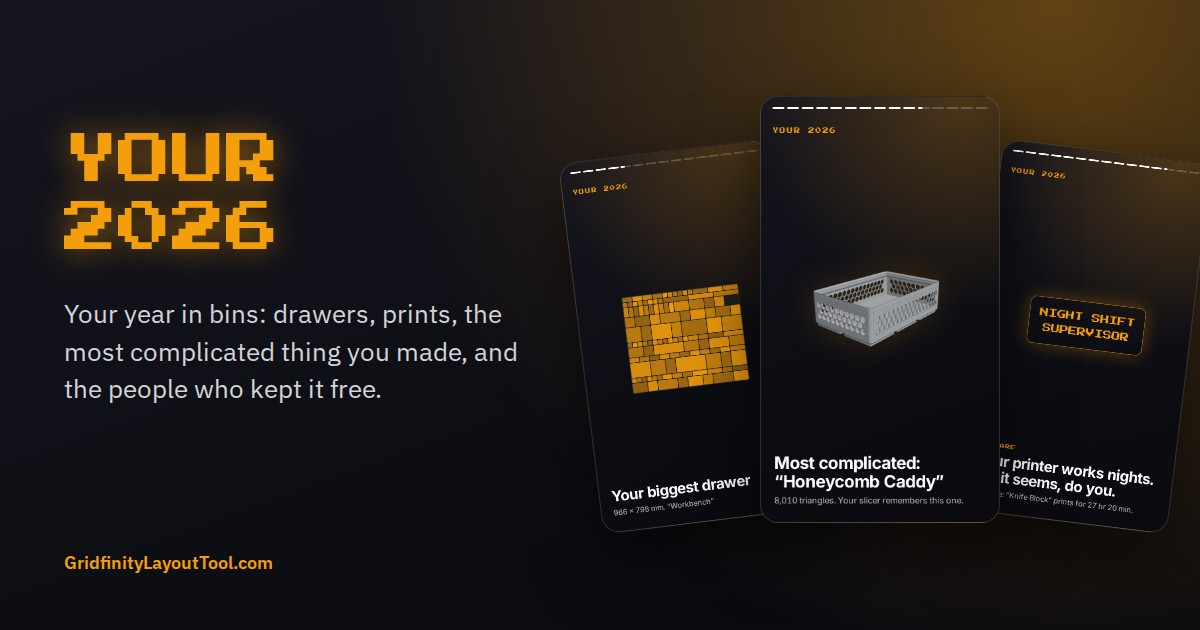
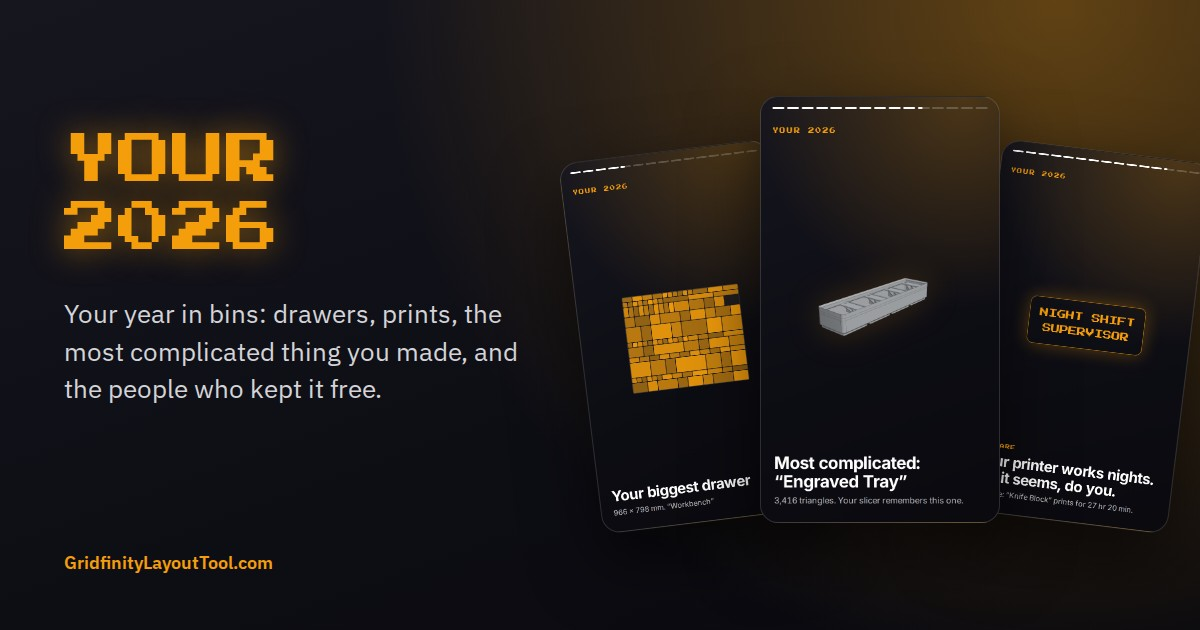
fix(supporters): pick the most complicated design by design work, not triangles
A wall pattern or engraved text adds thousands of triangles, so any patterned
bin won "Most complicated" over a design that took far more work. The pick is
now the design with the most work: each cutout, insert and text, each feature
turned on (a pattern counts once), and compartments up to a grid preset's cap.
The triangle count stays on the card as a fact about the chosen design.

The pick no longer depends on which meshes have loaded, so the page drops the
pick it froze per session and asks for two meshes, not six.

Changed region(s): [[0.6783, 0.4222, 0.8017, 0.5429], [0.6475, 0.754, 0.8017, 0.7841]]

diff --git a/src/features/supporters/year/components/Your2026Page/Your2026Page.tsx b/src/features/supporters/year/components/Your2026Page/Your2026Page.tsx
@@ -9,7 +9,6 @@ import { useSupportersRouting } from '@/shared/hooks/useSupportersRouting';
 import { useYour2026Routing } from '@/shared/hooks/useYour2026Routing';
 import { markYearReviewSeen } from '@/shared/yearReview/dockRow';
 import { isYearReviewOpen, YEAR_REVIEW_YEAR } from '@/shared/yearReview/window';
-import { useLatestRef } from '@/shared/hooks';
 import { useSupportersData } from '../../../hooks/useSupportersData';
 import { getSupportersPalette } from '../../../scene/palette';
 import { getSupporterCount } from '../../../utils/supportersData';
@@ -20,7 +19,7 @@ import { useShareImage } from '../../hooks/useShareImage';
 import { useYearMeshes } from '../../hooks/useYearMeshes';
 import { useYearSoundtrack } from '../../hooks/useYearSoundtrack';
 import { useYearReviewData } from '../../hooks/useYearReviewData';
-import { meshCandidates, pickComplicated, type ComplicatedPick } from '../../utils/complicatedPick';
+import { meshCandidates, pickComplicated } from '../../utils/complicatedPick';
 import type { YearCard } from '../../utils/yearCards';
 import { readableAccent } from '../../utils/readableAccent';
 import { ShareButton } from '../ShareButton';
@@ -30,14 +29,6 @@ import { hasYearActivity } from '../../utils/yearStats';
 import { StoryPlayer } from '../StoryPlayer';
 import { YearCardView, describeCard } from '../YearCardView';
 import { YearStage } from '../YearStage';
-
-/**
- * The most complicated bin of the user's own year, fixed the first time its card
- * shows, so a mesh that lands later cannot change the answer, and a replay names
- * the same bin. The sample's baked counts fix its pick already, and a frozen one
- * would keep a name translated into an earlier language.
- */
-let frozenComplicated: ComplicatedPick | null = null;
 
 const SITE_HOST = 'gridfinitylayouttool.com';
 
@@ -148,10 +139,9 @@ function YearReview({ demo }: { readonly demo: boolean }) {
     !demo && stats !== null && hasYearActivity(stats)
   );
   const meshes = demo ? sample.meshes : liveMeshes;
-  const [complicated, setComplicated] = useState(() => (demo ? null : frozenComplicated));
   // The sample knows its counts before its meshes load, so its pick never waits.
   const triangles = demo ? sample.triangles : null;
-  const liveComplicated = useMemo(
+  const complicated = useMemo(
     () =>
       stats
         ? pickComplicated(
@@ -161,20 +151,10 @@ function YearReview({ demo }: { readonly demo: boolean }) {
         : null,
     [stats, meshes, triangles]
   );
-  const shownComplicated = complicated ?? liveComplicated;
   const [settledCard, setSettledCard] = useState<YearCard | null>(null);
-  // Read through a ref: a new handler makes the player call it again with no
-  // card change, which would clear the image the settled card prepared.
-  const liveComplicatedRef = useLatestRef(liveComplicated);
-  const onCardChange = useCallback(
-    (card: YearCard) => {
-      setSettledCard(null);
-      if (demo || card.kind !== 'complicated' || frozenComplicated) return;
-      frozenComplicated = liveComplicatedRef.current;
-      setComplicated(liveComplicatedRef.current);
-    },
-    [liveComplicatedRef, demo]
-  );
+  // Stable on purpose: a new handler makes the player call it again with no card
+  // change, which would clear the image the settled card prepared.
+  const onCardChange = useCallback(() => setSettledCard(null), []);
   const supporterCount = getSupporterCount(supporters);
   const shareSpec = useMemo(
     () =>
@@ -185,23 +165,12 @@ function YearReview({ demo }: { readonly demo: boolean }) {
             locale,
             unit,
             supporterCount,
-            complicated: complicated ?? liveComplicated,
+            complicated,
             drawerPreview,
             meshes,
           })
         : null,
-    [
-      settledCard,
-      stats,
-      t,
-      locale,
-      unit,
-      supporterCount,
-      complicated,
-      liveComplicated,
-      drawerPreview,
-      meshes,
-    ]
+    [settledCard, stats, t, locale, unit, supporterCount, complicated, drawerPreview, meshes]
   );
   const shareTheme = useMemo(() => {
     // Canvas fonts cannot read CSS variables, so the families are resolved here.
@@ -306,7 +275,7 @@ function YearReview({ demo }: { readonly demo: boolean }) {
           locale,
           unit,
           supporterCount: getSupporterCount(supporters),
-          complicated: shownComplicated,
+          complicated,
         })
       }
       renderCard={(card, position) => (
@@ -321,7 +290,7 @@ function YearReview({ demo }: { readonly demo: boolean }) {
           supporterCount={getSupporterCount(supporters)}
           drawerPreview={drawerPreview}
           meshes={meshes}
-          complicated={shownComplicated}
+          complicated={complicated}
           onRollCredits={rollCredits}
           onSupport={support}
         />

diff --git a/src/features/supporters/year/utils/complicatedPick.ts b/src/features/supporters/year/utils/complicatedPick.ts
@@ -1,43 +1,29 @@
 import type { YearBinRef, YearShortlistEntry, YearStats } from '../types';
 
-/** How many of the highest-scored designs get a mesh, besides the longest print. */
-const SHORTLIST_MESHES = 5;
-
 export interface ComplicatedPick {
   readonly design: YearShortlistEntry;
-  /** Null when no shortlisted design has a mesh yet. */
+  /** Null until the design's mesh is ready; the card then shows no count. */
   readonly triangles: number | null;
 }
 
-/** The designs worth a mesh, the longest print first. */
+/** The designs worth a mesh: the longest print and the most complicated design, once each. */
 export function meshCandidates(stats: YearStats): YearBinRef[] {
   const designs: YearBinRef[] = [];
-  const seen = new Set<string>();
-  for (const design of [
-    stats.longestPrint,
-    ...stats.complexityShortlist.slice(0, SHORTLIST_MESHES),
-  ]) {
-    if (!design || seen.has(design.id)) continue;
-    seen.add(design.id);
-    designs.push(design);
+  for (const design of [stats.longestPrint, stats.complexityShortlist.at(0)]) {
+    if (design && !designs.some((each) => each.id === design.id)) designs.push(design);
   }
   return designs;
 }
 
 /**
- * The shortlisted design with the most triangles, or the top-scored one when
- * no mesh is ready, which the card shows without a count.
+ * The design with the most design work, which the shortlist lists first. Its
+ * triangle count is a fact for the card, never the ranking: a pattern or
+ * engraved text would otherwise win every year.
  */
 export function pickComplicated(
   shortlist: readonly YearShortlistEntry[],
   triangles: (id: string) => number | undefined
 ): ComplicatedPick | null {
-  let best: ComplicatedPick | null = null;
-  for (const design of shortlist) {
-    const count = triangles(design.id);
-    if (count !== undefined && (best?.triangles ?? -1) < count) best = { design, triangles: count };
-  }
-  if (best) return best;
   const top = shortlist.at(0);
-  return top ? { design: top, triangles: null } : null;
+  return top ? { design: top, triangles: triangles(top.id) ?? null } : null;
 }

diff --git a/src/features/supporters/year/utils/designFeatures.test.ts b/src/features/supporters/year/utils/designFeatures.test.ts
@@ -1,7 +1,7 @@
 import { describe, expect, it } from 'vitest';
 import { DEFAULT_BIN_PARAMS } from '@/shared/constants/bin';
 import type { BinParams } from '@/shared/types/bin';
-import { compartmentCount, featureScore, hasLabelText, isBinParams } from './designFeatures';
+import { compartmentCount, designWork, hasLabelText, isBinParams } from './designFeatures';
 
 function withCompartments(rows: number, cols: number, cells: number[]): BinParams {
   return {
@@ -97,13 +97,34 @@ describe('hasLabelText', () => {
   });
 });
 
-describe('featureScore', () => {
-  it('ranks a patterned wall above a plain one', () => {
-    const plain = featureScore(DEFAULT_BIN_PARAMS);
-    const patterned = featureScore({
+describe('designWork', () => {
+  const patterned = {
+    ...DEFAULT_BIN_PARAMS,
+    wallPattern: { ...DEFAULT_BIN_PARAMS.wallPattern, enabled: true },
+  };
+
+  it('counts a wall pattern as one feature, like a scoop', () => {
+    const scooped = {
       ...DEFAULT_BIN_PARAMS,
-      wallPattern: { ...DEFAULT_BIN_PARAMS.wallPattern, enabled: true },
+      scoop: { ...DEFAULT_BIN_PARAMS.scoop, enabled: true },
+    };
+    expect(designWork(patterned)).toBe(designWork(scooped));
+  });
+
+  it('ranks a design with more built into it above a patterned plain bin', () => {
+    const worked = {
+      ...DEFAULT_BIN_PARAMS,
+      compartments: { ...DEFAULT_BIN_PARAMS.compartments, rows: 2, cols: 3, cells: [] },
+      lid: { ...DEFAULT_BIN_PARAMS.lid, enabled: true },
+    };
+    expect(designWork(worked)).toBeGreaterThan(designWork(patterned));
+  });
+
+  it('caps a large compartment grid, which is one preset', () => {
+    const grid = (rows: number, cols: number) => ({
+      ...DEFAULT_BIN_PARAMS,
+      compartments: { ...DEFAULT_BIN_PARAMS.compartments, rows, cols, cells: [] },
     });
-    expect(patterned).toBeGreaterThan(plain);
+    expect(designWork(grid(10, 10))).toBe(designWork(grid(4, 4)));
   });
 });

diff --git a/src/features/supporters/year/utils/complicatedPick.test.ts b/src/features/supporters/year/utils/complicatedPick.test.ts
@@ -10,15 +10,15 @@ function entry(id: string, score: number): YearShortlistEntry {
 const shortlist = [entry('a', 30), entry('b', 20), entry('c', 10)];
 
 describe('pickComplicated', () => {
-  it('picks the most triangles among the designs with a mesh', () => {
-    const counts: Record<string, number> = { b: 9000, c: 4000 };
+  it('picks the most design work, whatever has the most triangles', () => {
+    const counts: Record<string, number> = { a: 3000, b: 90_000 };
     expect(pickComplicated(shortlist, (id) => counts[id])).toEqual({
-      design: shortlist[1],
-      triangles: 9000,
+      design: shortlist[0],
+      triangles: 3000,
     });
   });
 
-  it('falls back to the top score, without a count, when no mesh is ready', () => {
+  it('shows no count until the mesh is ready', () => {
     expect(pickComplicated(shortlist, () => undefined)).toEqual({
       design: shortlist[0],
       triangles: null,
@@ -31,18 +31,14 @@ describe('pickComplicated', () => {
 });
 
 describe('meshCandidates', () => {
-  it('puts the longest print first and takes five more by score, once each', () => {
+  it('asks for the longest print and the most complicated design, once each', () => {
     const many = Array.from({ length: 8 }, (_, i) => entry(`d${i}`, 10 - i));
     const stats = {
       longestPrint: { ...many[2], minutes: 600 },
       complexityShortlist: many,
     } as unknown as YearStats;
-    expect(meshCandidates(stats).map((design) => design.id)).toEqual([
-      'd2',
-      'd0',
-      'd1',
-      'd3',
-      'd4',
-    ]);
+    expect(meshCandidates(stats).map((design) => design.id)).toEqual(['d2', 'd0']);
+    const same = { ...stats, longestPrint: { ...many[0], minutes: 600 } } as unknown as YearStats;
+    expect(meshCandidates(same).map((design) => design.id)).toEqual(['d0']);
   });
 });

diff --git a/src/features/supporters/year/utils/designFeatures.ts b/src/features/supporters/year/utils/designFeatures.ts
@@ -50,22 +50,33 @@ export function hasLabelText(params: BinParams, nozzleSizeMm?: number): boolean 
   return textCount(params, nozzleSizeMm) > 0;
 }
 
+/** Compartments past this read as one grid preset, not as separate decisions. */
+const COMPARTMENT_WORK_CAP = 12;
+
 /**
- * A cheap guess at which designs have the biggest meshes, used to pick the few
- * worth generating. Patterns and engraved text add the most triangles.
+ * How much a maker built into a design, for "Most complicated". Each placed
+ * cutout, insert and text counts, and each feature turned on counts once: a
+ * wall pattern adds the most triangles, but it is one decision like a scoop.
  */
-export function featureScore(params: BinParams, nozzleSizeMm?: number): number {
+export function designWork(params: BinParams, nozzleSizeMm?: number): number {
+  const features = [
+    params.wallPattern.enabled,
+    params.floorPattern?.enabled === true,
+    params.scoop.enabled,
+    params.label.enabled,
+    params.handles.enabled,
+    params.pullTab?.enabled === true,
+    params.knifeRest?.enabled === true,
+    params.overhang?.enabled === true,
+    params.cellMask !== undefined,
+  ].filter(Boolean).length;
   return (
-    compartmentCount(params) +
+    Math.min(compartmentCount(params), COMPARTMENT_WORK_CAP) +
     params.cutouts.length * 2 +
     params.inserts.length * 2 +
-    textCount(params, nozzleSizeMm) * 3 +
-    (params.wallPattern.enabled ? 6 : 0) +
-    (params.floorPattern?.enabled === true ? 6 : 0) +
-    (params.lid.enabled ? 3 : 0) +
-    (params.scoop.enabled ? 2 : 0) +
-    (params.label.enabled ? 1 : 0) +
-    (params.handles.enabled ? 1 : 0) +
-    (params.slant ? 1 : 0)
+    textCount(params, nozzleSizeMm) * 2 +
+    features +
+    (params.lid.enabled ? 2 : 0) +
+    (params.slant ? 2 : 0)
   );
 }

diff --git a/scripts/gen-your-2026-sample.ts b/scripts/gen-your-2026-sample.ts
@@ -23,7 +23,7 @@ import gltfPipeline from 'gltf-pipeline';
 import { EXAMPLE_DESIGNS } from '../src/features/bin-designer/data/examples';
 import { initOcctWasmKernel } from '../src/features/generation/worker/generators/__kernel-tests__/kernelInit';
 import type { MeshData } from '../src/features/generation/bridge/types';
-import { featureScore } from '../src/features/supporters/year/utils/designFeatures';
+import { designWork } from '../src/features/supporters/year/utils/designFeatures';
 import { meshTriangles } from '../src/features/supporters/year/utils/meshTriangles';
 import { withSocketNozzle } from '../src/shared/generation/socketNozzle';
 import { DEFAULT_PRINT_SETTINGS } from '../src/shared/printSettings';
@@ -294,7 +294,7 @@ async function main(): Promise<void> {
       id,
       nameKey: example.nameKey,
       minutes: Math.round(estimateCommunityPrint(example.params).minutes),
-      score: featureScore(example.params),
+      score: designWork(example.params),
       triangles: meshTriangles(mesh),
       mesh,
     };
@@ -305,9 +305,8 @@ async function main(): Promise<void> {
   if (others.some((design) => design.minutes >= longest.minutes)) {
     throw new Error(`${LONGEST_PRINT} is no longer the longest print`);
   }
-  const complicated = others.reduce((best, design) =>
-    design.triangles > best.triangles ? design : best
-  );
+  // The app picks by design work, not triangles, so the bake does too.
+  const complicated = others.reduce((best, design) => (design.score > best.score ? design : best));
 
   const raw = buildGlb([bake(longest.id, longest.mesh), bake(complicated.id, complicated.mesh)]);
   const { glb } = await processGlb(raw, { dracoOptions: { compressionLevel: 7 } });

diff --git a/src/features/supporters/year/utils/sampleYear.test.ts b/src/features/supporters/year/utils/sampleYear.test.ts
@@ -54,13 +54,15 @@ describe('sampleYear', () => {
     );
   });
 
-  it('picks a most complicated bin that is not the longest print', () => {
+  it('picks the design with the most work, not the most triangles', () => {
     const triangles = sampleTriangles(SAMPLE_SOURCE);
     const pick = pickComplicated(stats.complexityShortlist, (id) => triangles.get(id));
-    expect(pick?.design.id).not.toBe(SAMPLE_SOURCE.longestPrint);
-    expect(pick?.triangles).toBe(
-      Math.max(...stats.complexityShortlist.map((entry) => triangles.get(entry.id) ?? 0))
+    const most = Math.max(
+      ...stats.complexityShortlist.map((entry) => triangles.get(entry.id) ?? 0)
     );
+    expect(pick?.design.id).not.toBe(SAMPLE_SOURCE.longestPrint);
+    expect(pick?.triangles).toBe(triangles.get(pick?.design.id ?? ''));
+    expect(pick?.triangles).toBeLessThan(most);
   });
 
   it('translates names and links thumbnails through the given lookups', () => {

diff --git a/src/features/supporters/year/utils/yearStats.ts b/src/features/supporters/year/utils/yearStats.ts
@@ -21,7 +21,7 @@ import type {
   YearShortlistEntry,
   YearStats,
 } from '../types';
-import { compartmentCount, featureScore, hasLabelText, isBinParams } from './designFeatures';
+import { compartmentCount, designWork, hasLabelText, isBinParams } from './designFeatures';
 import {
   designCountsForYear,
   inYear,
@@ -57,7 +57,7 @@ function readBinDesign(source: YearDesignSource, settings: PrintSettings): BinDe
       params,
       minutes: estimate.minutes,
       grams: estimate.grams,
-      score: featureScore(params, settings.nozzleSizeMm),
+      score: designWork(params, settings.nozzleSizeMm),
       compartments: compartmentCount(params),
       labelled: hasLabelText(params, settings.nozzleSizeMm),
     };
